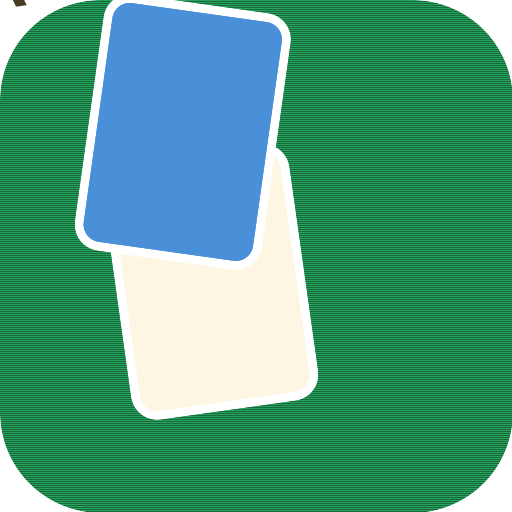
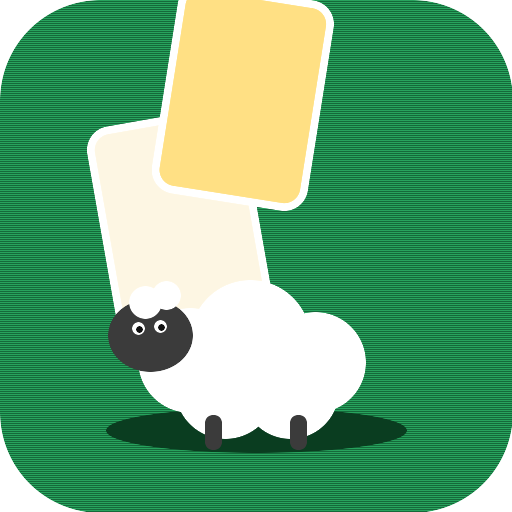
Cada Ovella amb sa Parella: nom nou, instruccions, PIN admin i easter egg

diff --git a/index.html b/index.html
@@ -4,7 +4,7 @@
   <meta charset="UTF-8">
   <meta name="viewport" content="width=device-width, initial-scale=1.0, maximum-scale=1.0, user-scalable=no">
   <meta name="theme-color" content="#1e8a4c">
-  <title>Solitari de Famílies</title>
+  <title>Cada Ovella amb sa Parella</title>
   <link rel="manifest" href="manifest.json">
   <link rel="icon" href="icon.png">
   <link rel="apple-touch-icon" href="icon.png">
@@ -15,10 +15,11 @@
   <!-- ===== PANTALLA D'INICI ===== -->
   <div id="pantalla-inici" class="pantalla">
     <div class="logo">
-      <div class="logo-corona">👑</div>
-      <h1>Solitari<br><span>de Famílies</span></h1>
+      <div class="logo-corona">🐑</div>
+      <h1>Cada Ovella<br><span>amb sa Parella</span></h1>
     </div>
-    <p class="subtitol">Agrupa les paraules de cada família!</p>
+    <p class="subtitol">Cada paraula amb la seva família!</p>
+    <button id="btn-instruccions-inici" class="btn-pill">❓ Com s'hi juga</button>
     <div id="graella-nivells"></div>
     <button id="btn-admin" class="btn-text">🔧 Mode admin</button>
     <button id="btn-esborrar-progres" class="btn-text">Esborrar progrés</button>
@@ -33,6 +34,7 @@
         <div id="comptador-moviments"></div>
       </div>
       <div class="botons-dreta">
+        <button id="btn-instruccions-joc" class="btn-icona" title="Com s'hi juga">❓</button>
         <button id="btn-desfer" class="btn-icona" title="Desfer">↩</button>
         <button id="btn-reiniciar" class="btn-icona" title="Reiniciar">🔄</button>
       </div>
@@ -46,6 +48,83 @@
     <div id="tauler"></div>
 
     <div id="missatge-flotant" class="amagada"></div>
+  </div>
+
+  <!-- ===== PANTALLA D'INSTRUCCIONS ===== -->
+  <div id="pantalla-instruccions" class="pantalla amagada">
+    <header id="capçalera-instruccions">
+      <button id="btn-tancar-instruccions" class="btn-icona">←</button>
+      <h2>Com s'hi juga</h2>
+    </header>
+    <div id="cos-instruccions">
+
+      <section class="instr">
+        <h3>🎯 L'objectiu</h3>
+        <p>Envia <b>totes les cartes</b> a les col·leccions de dalt abans d'esgotar els moviments.</p>
+        <div class="infografia">
+          <div class="mini-carta"><span>Talp</span></div>
+          <div class="mini-carta"><span>Fura</span></div>
+          <span class="fletxa">→</span>
+          <div class="mini-fundacio"><i>Animals</i><b>🐾</b><u>2/4</u></div>
+        </div>
+      </section>
+
+      <section class="instr">
+        <h3>👑 La carta mestra</h3>
+        <p>Només la <b>carta daurada</b> de cada família pot <b>obrir</b> una col·lecció.</p>
+        <div class="infografia">
+          <div class="mini-carta mini-mestra"><span>Animals</span><em>👑</em></div>
+          <span class="fletxa">→</span>
+          <div class="mini-slot">👑</div>
+          <span class="ok">✓</span>
+        </div>
+        <div class="infografia">
+          <div class="mini-carta"><span>Talp</span></div>
+          <span class="fletxa">→</span>
+          <div class="mini-slot">👑</div>
+          <span class="ko">✗</span>
+        </div>
+      </section>
+
+      <section class="instr">
+        <h3>🃏 Apila per famílies</h3>
+        <p>Només pots apilar cartes de la <b>mateixa família</b>... i l'has d'endevinar! Un cop juntes, es mouen <b>en bloc</b>.</p>
+        <div class="infografia">
+          <div class="mini-pila"><div class="mini-carta"><span>Fura</span></div><div class="mini-carta solapada"><span>Talp</span></div></div>
+          <span class="ok">✓</span>
+          <span class="separador"></span>
+          <div class="mini-pila"><div class="mini-carta"><span>Fura</span></div><div class="mini-carta solapada"><span>Atzur</span></div></div>
+          <span class="ko">✗ −1</span>
+        </div>
+      </section>
+
+      <section class="instr">
+        <h3>⛔ La mestra bloqueja</h3>
+        <p>Mestra a sobre = columna <b>tancada</b>. El bloc només pot anar a una col·lecció o a una columna buida.</p>
+        <div class="infografia">
+          <div class="mini-pila"><div class="mini-carta"><span>Talp</span></div><div class="mini-carta mini-mestra solapada"><span>Animals</span><em>👑</em></div></div>
+          <span class="fletxa">←</span>
+          <div class="mini-carta"><span>Fura</span></div>
+          <span class="ko">✗</span>
+        </div>
+      </section>
+
+      <section class="instr">
+        <h3>🂠 La pila de robar</h3>
+        <p>Sense jugades? Toca la pila per robar. Quan s'acabi, recicla ♻ el descart.</p>
+      </section>
+
+      <section class="instr">
+        <h3>⚡ Els moviments</h3>
+        <p>Tot costa <b>1 moviment</b>: moure, robar i desfer ↩. Família incorrecta: <b>−1 extra</b>. A 0, has perdut!</p>
+      </section>
+
+      <section class="instr">
+        <h3>🐑 Consells</h3>
+        <p>Buida columnes aviat. No obris col·leccions a la babalà: els espais són limitats!</p>
+      </section>
+
+    </div>
   </div>
 
   <!-- ===== MODAL VICTÒRIA / DERROTA ===== -->

diff --git a/style.css b/style.css
@@ -391,6 +391,117 @@ html, body {
   to   { opacity: 1; transform: translateX(-50%) translateY(0); }
 }
 
+/* ===== PANTALLA D'INSTRUCCIONS ===== */
+#capçalera-instruccions {
+  display: flex;
+  align-items: center;
+  gap: 12px;
+  padding: 12px 14px 8px;
+}
+#capçalera-instruccions h2 { font-size: 20px; text-shadow: 0 2px 0 rgba(0,0,0,.2); }
+
+#cos-instruccions {
+  flex: 1;
+  overflow-y: auto;
+  padding: 4px 14px calc(20px + env(safe-area-inset-bottom));
+}
+
+.instr {
+  background: var(--crema);
+  color: #4a3b22;
+  border-radius: 16px;
+  padding: 14px 16px;
+  margin-bottom: 12px;
+  box-shadow: 0 3px 0 rgba(0,0,0,.2);
+}
+.instr h3 { font-size: 16px; margin-bottom: 6px; }
+.instr p { font-size: 13.5px; line-height: 1.45; }
+.instr b { color: #1e8a4c; }
+
+.infografia {
+  display: flex;
+  align-items: center;
+  justify-content: center;
+  gap: 10px;
+  margin-top: 12px;
+  flex-wrap: wrap;
+}
+
+.mini-carta {
+  width: 48px; height: 62px;
+  background: #fffdf4;
+  border: 2px solid #e3d9bd;
+  border-radius: 8px;
+  box-shadow: 0 2px 3px rgba(0,0,0,.15);
+  display: flex;
+  flex-direction: column;
+  align-items: center;
+  padding-top: 4px;
+  position: relative;
+}
+.mini-carta span {
+  font-size: 8.5px;
+  font-weight: 800;
+  text-align: center;
+  line-height: 1.1;
+  padding: 0 2px;
+}
+.mini-carta em { font-style: normal; font-size: 16px; margin-top: auto; margin-bottom: 4px; }
+.mini-carta.mini-mestra {
+  background: linear-gradient(160deg, #ffe084, #f5b73a);
+  border-color: #e0a72e;
+  color: #5a4100;
+}
+
+.mini-pila { position: relative; width: 48px; height: 84px; }
+.mini-pila .mini-carta { position: absolute; top: 0; }
+.mini-pila .mini-carta.solapada { top: 22px; }
+
+.mini-slot {
+  width: 48px; height: 62px;
+  border: 2px dashed #b9ce9f;
+  border-radius: 8px;
+  background: rgba(30,138,76,.08);
+  display: flex;
+  align-items: center;
+  justify-content: center;
+  font-size: 18px;
+  opacity: .9;
+}
+
+.mini-fundacio {
+  width: 52px; height: 62px;
+  background: #fffdf4;
+  border: 2px solid #e3d9bd;
+  border-radius: 8px;
+  display: flex;
+  flex-direction: column;
+  align-items: center;
+  justify-content: center;
+  box-shadow: 0 2px 3px rgba(0,0,0,.15);
+}
+.mini-fundacio i { font-style: normal; font-size: 7.5px; font-weight: 800; background: var(--groc); border-radius: 6px; padding: 1px 5px; margin-bottom: 2px; }
+.mini-fundacio b { font-size: 16px; }
+.mini-fundacio u { text-decoration: none; font-size: 10px; font-weight: 800; }
+
+.fletxa { font-size: 22px; font-weight: 800; opacity: .65; color: #4a3b22; }
+.instr .ok { color: #2eb360; font-size: 22px; font-weight: 800; }
+.instr .ko { color: #c62828; font-size: 18px; font-weight: 800; }
+.separador { width: 14px; }
+
+.btn-pill {
+  border: none;
+  border-radius: 20px;
+  background: rgba(0,0,0,.25);
+  color: #fff;
+  font-size: 14px;
+  font-weight: 700;
+  padding: 9px 20px;
+  margin-bottom: 20px;
+  cursor: pointer;
+}
+.btn-pill:active { background: rgba(0,0,0,.4); }
+
 /* ===== MODAL ===== */
 #modal {
   position: fixed;

diff --git a/game.js b/game.js
@@ -380,7 +380,20 @@ function mostraModal(victoria) {
     botons.appendChild(b);
   };
   if (victoria && !ultimNivell) fes("Següent nivell ▶", "primari", () => nouNivell(estat.nivellIdx + 1));
-  if (!victoria) fes("Torna-ho a provar 🔄", "primari", () => nouNivell(estat.nivellIdx));
+  if (!victoria) {
+    fes("Torna-ho a provar 🔄", "primari", () => nouNivell(estat.nivellIdx));
+    // easter egg: no afegeix res, només demana un Bizum
+    const bizum = document.createElement("button");
+    bizum.className = "btn-modal secundari";
+    bizum.textContent = "Afegeix 5 moviments 💰";
+    bizum.onclick = () => {
+      $("#modal-text").textContent = "Primer fes un Bizum a l'Arnau de 5 euros 😏";
+      bizum.textContent = "Esperant el Bizum... 💸";
+      bizum.disabled = true;
+      bizum.style.opacity = ".6";
+    };
+    botons.appendChild(bizum);
+  }
   if (victoria && ultimNivell) fes("Torna a l'inici 🏠", "primari", vesAInici);
   fes("Inici 🏠", "secundari", vesAInici);
   $("#modal").classList.remove("amagada");
@@ -670,8 +683,36 @@ $("#btn-desfer").addEventListener("click", desfer);
 $("#btn-reiniciar").addEventListener("click", () => nouNivell(estat.nivellIdx));
 $("#btn-inici").addEventListener("click", vesAInici);
 $("#btn-admin").addEventListener("click", () => {
-  localStorage.setItem(clau("admin"), adminActiu() ? "0" : "1");
+  if (adminActiu()) {
+    localStorage.setItem(clau("admin"), "0"); // desactivar no demana contrasenya
+  } else {
+    const pin = prompt("Contrasenya del mode admin:");
+    if (pin !== "1111") { if (pin !== null) alert("Contrasenya incorrecta"); return; }
+    localStorage.setItem(clau("admin"), "1");
+  }
   pintaGraellaNivells();
+});
+
+// ---------- instruccions ----------
+let pantallaAnterior = "inici"; // d'on s'ha obert: "inici" o "joc"
+
+function obreInstruccions(desDe) {
+  pantallaAnterior = desDe;
+  $("#pantalla-inici").classList.add("amagada");
+  $("#pantalla-joc").classList.add("amagada");
+  $("#pantalla-instruccions").classList.remove("amagada");
+}
+
+$("#btn-instruccions-inici").addEventListener("click", () => obreInstruccions("inici"));
+$("#btn-instruccions-joc").addEventListener("click", () => obreInstruccions("joc"));
+$("#btn-tancar-instruccions").addEventListener("click", () => {
+  $("#pantalla-instruccions").classList.add("amagada");
+  if (pantallaAnterior === "joc" && estat && !estat.acabat) {
+    $("#pantalla-joc").classList.remove("amagada");
+  } else {
+    $("#pantalla-inici").classList.remove("amagada");
+    pintaGraellaNivells();
+  }
 });
 $("#btn-esborrar-progres").addEventListener("click", () => {
   if (confirm("Segur que vols esborrar el progrés?")) {

diff --git a/sw.js b/sw.js
@@ -1,6 +1,6 @@
 // Service worker: fa que el joc funcioni sense connexió un cop carregat.
 // Si canvies el joc, puja el número de versió perquè els mòbils es refresquin.
-const VERSIO = "solitari-v9";
+const VERSIO = "solitari-v13";
 const FITXERS = ["./", "index.html", "style.css", "game.js", "families.js", "dibuixos.js", "levels.js", "manifest.json", "icon.png"];
 
 self.addEventListener("install", (e) => {

diff --git a/levels.js b/levels.js
@@ -41,9 +41,9 @@ const LEVELS = [
     espais: 2,
     win_ratio: 0.98,
     families: [
-      { id: "joies", n: 4 },
       { id: "fruites", n: 4 },
-      { id: "animals", n: 4 }
+      { id: "animals", n: 4 },
+      { id: "mobles", n: 4 }
     ],
     columnes: [1, 2, 3]
   },

diff --git a/README.md b/README.md
@@ -1,6 +1,8 @@
-# 👑 Solitari de Famílies
+# 🐑 Cada Ovella amb sa Parella
 
 Un joc de mòbil en català: un mix entre el Solitari clàssic i el joc de les famílies de paraules. Fet amb HTML + CSS + JavaScript, sense cap motor de joc ni instal·lació — s'obre directament al navegador.
+
+Dins del joc hi ha la pàgina «❓ Com s'hi juga» amb les regles il·lustrades, accessible des del menú principal i des de qualsevol partida. El mode admin (desbloqueja tots els nivells) demana la contrasenya `1111`.
 
 ## Com es juga
 
